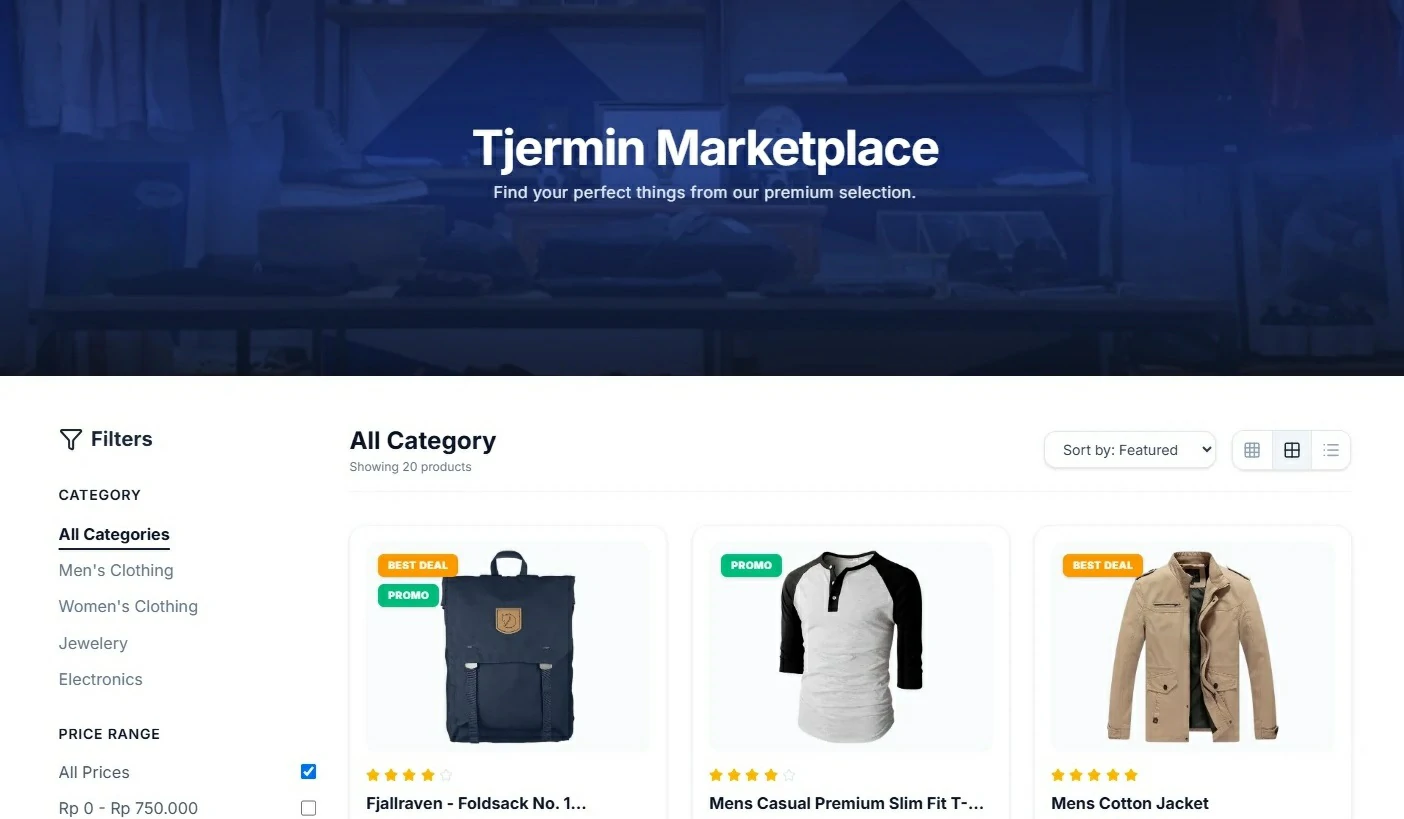
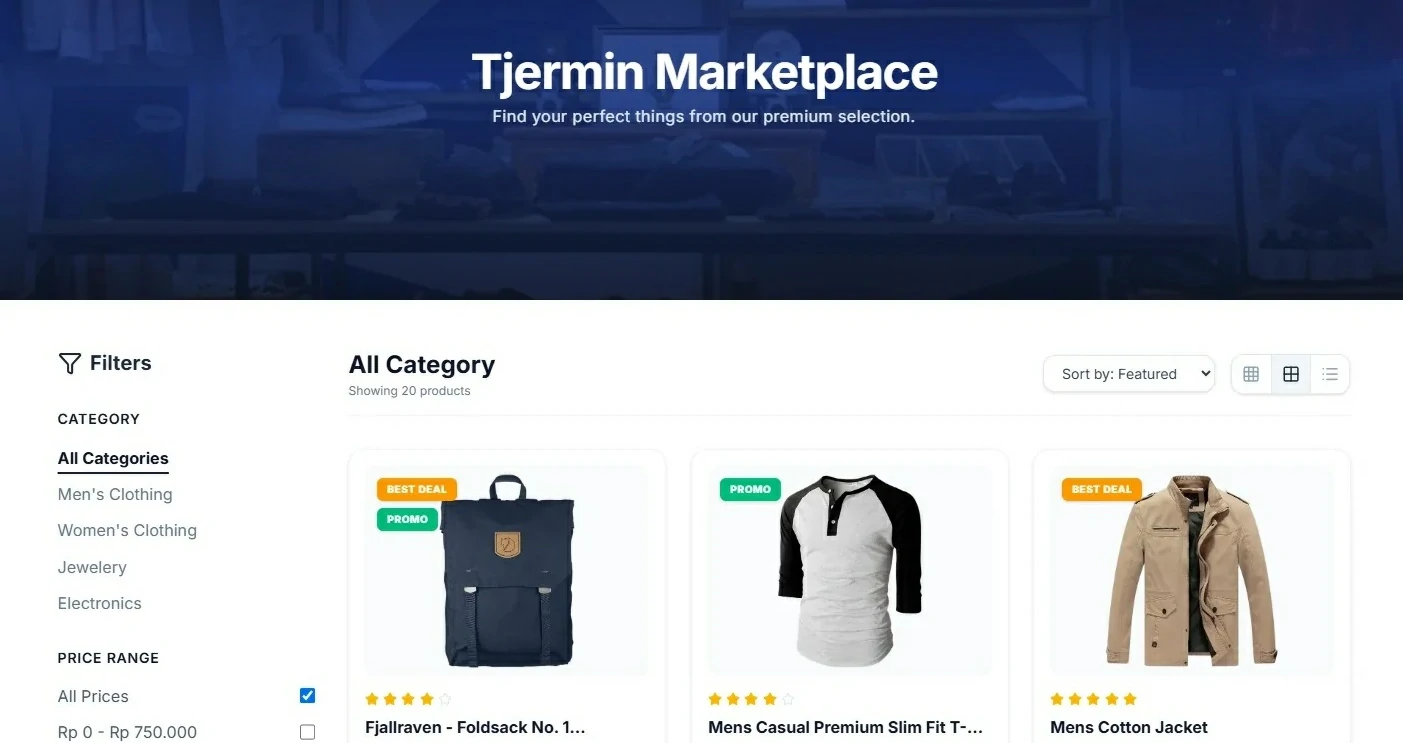
27/09/2026 Changes - Remove unused code on App - Assets adjustment

diff --git a/src/constants/index.js b/src/constants/index.js
@@ -1,6 +1,7 @@
 import thumbMovielabs from "../assets/images/movielabs.webp";
 import thumbTwidd from "../assets/images/twidd.png";
 import thumbTjermin from "../assets/images/tjermin.webp";
+import thumbNawadata from "../assets/images/nawadata.webp";
 
 export const timeline = [
   {
@@ -53,5 +54,13 @@ export const projects = [
     thumbnail: thumbTwidd,
     description:
       "A twitter-inspired website built with Next.js, Tailwind CSS and Firebase.",
+  },
+  {
+    id: "nawadata",
+    href: "https://nawadata.com/",
+    title: "Nawa Data Solutions",
+    thumbnail: thumbNawadata,
+    description:
+      "An IT Consulting company website built with PHP CodeIgniter.",
   },
 ];

diff --git a/src/App.jsx b/src/App.jsx
@@ -1,10 +1,7 @@
 import {
   Box,
-  Button,
   Container,
-  Flex,
   Heading,
-  Link,
   SimpleGrid,
   useColorModeValue,
 } from "@chakra-ui/react";
@@ -16,7 +13,6 @@ import {
   GridItem,
   SocialLinks,
 } from "./components";
-import { IoLogoGithub, IoLogoInstagram, IoLogoLinkedin } from "react-icons/io";
 import { timeline, projects } from "./constants";
 import profileAndre from "./assets/images/andre.webp";
 
